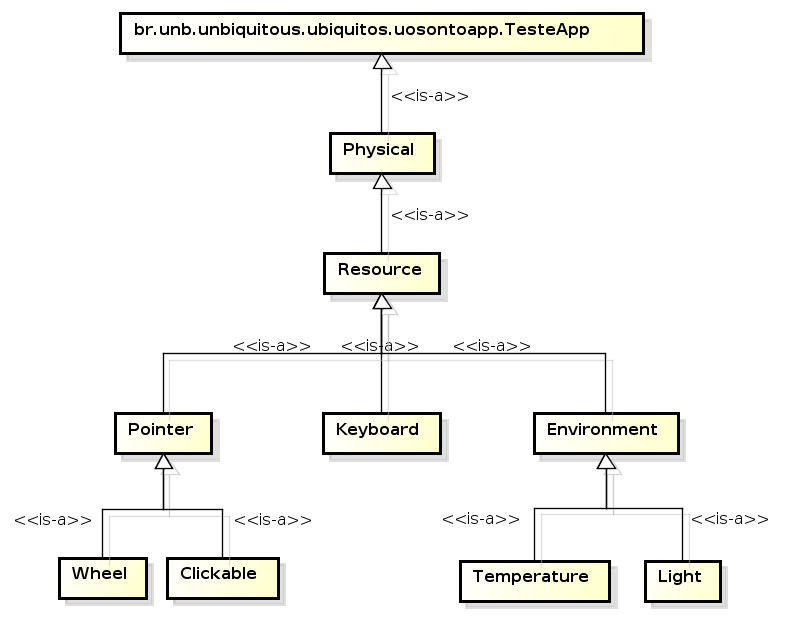
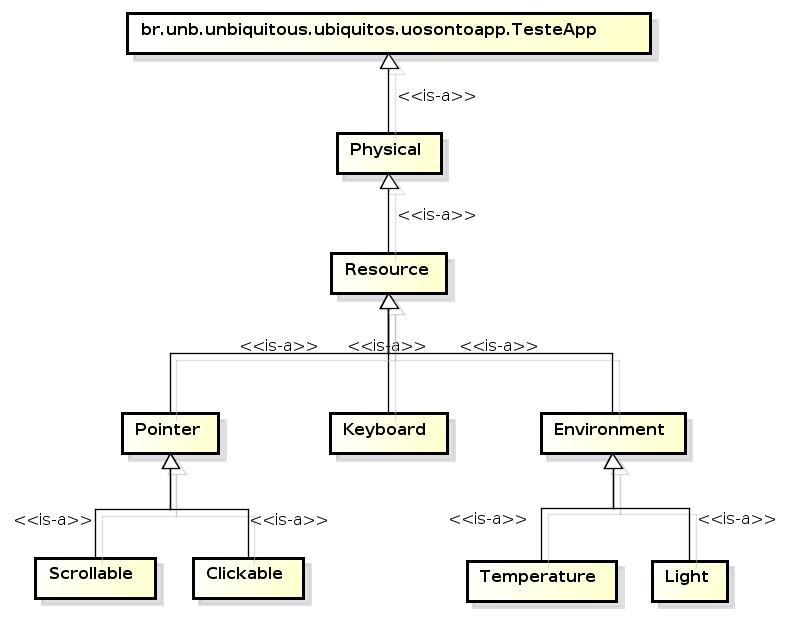
Adicionando parte das alterações sugeridas pela banca.

diff --git a/capitulos/2.ClassificacaoDeRecursos/classificacao_de_recursos.tex b/capitulos/2.ClassificacaoDeRecursos/classificacao_de_recursos.tex
@@ -15,12 +15,12 @@ Um desafio fundamental para tais ambientes é o desenvolvimento de técnicas de 
 	\item Ser escalável para um grande número de recursos.
 \end{enumerate}
 
-Neste sentido, destaca-se a importância de uma classificação de recursos que possibilite uma melhor gestão dos diversos recursos presentes no \emph{smart space}. Muitos trabalhos focam nos serviços e não nos recursos e, por esse motivo, o tema ``Classificação de Recursos'' também é comumente chamado de ``Classificação de Serviços'', ``Tipagem de Serviços'' ou ``Ontologia de Serviços''. Tal classificação livrará o usuário de tarefas e configurações tediosas e redundantes, criando um entendimento comum do que estes recursos representam, evitando quaisquer custos administrativos, de forma a facilitar a interação entre diferentes aparelhos e contribuir para a adaptabilidade de serviços. As aplicacões podem, portanto, saber quais recursos podem ou devem utilizar dependendo do contexto atual.
+Neste sentido, destaca-se a importância de uma classificação de recursos que possibilite uma melhor gestão dos diversos recursos presentes no \emph{smart space}. Muitos trabalhos focam nos serviços e não nos recursos e, por esse motivo, o tema ``Classificação de Recursos'' também é comumente chamado de ``Classificação de Serviços'' ou ``Tipagem de Serviços''. Tal classificação livrará o usuário de tarefas e configurações tediosas e redundantes, criando um entendimento comum do que estes recursos representam, evitando quaisquer custos administrativos, de forma a facilitar a interação entre diferentes aparelhos e contribuir para a adaptabilidade de serviços. As aplicacões podem, portanto, saber quais recursos podem ou devem utilizar dependendo do contexto atual.
 
 A fim de ilustrar a vantagem de se empregar a classificação de recursos em técnicas de descoberta de recursos, pode-se considerar o seguinte exemplo:
 
 \begin{quote}
-	Um usuário presente em um \emph{smart space} que não possui uma classificação de recursos necessita de uma tela para projetar a apresentação do seu trabalho de graduação que está armazenada em seu celular. Existem três recursos de tela disponíveis: uma TV LED de 40'', uma TV LCD de 27'' e uma TV 3D de 14''. Tal usuário poderia facilmente escolher qual dos três recursos melhor lhe serviria: buscaria, por meio de seu celular, cada um dos recursos disponíveis, e, em seguida, optaria por um. Contudo, a fim de manter a proatividade e invisibilidade inerente a sistemas ubíquos, o ambiente deveria ser capaz de reconhecer quais recursos são adequados ou não para projetar a apresentação. Assim, o que fazer para automaticamente selecionar a melhor opção? Outro problema ocorreria com a saída do ambiente de um dos recursos que estivessem sendo utilizados pelo usuário. O que fazer para supri-lo? A única alternativa seria entregar outro recurso idêntico ao anterior, de forma a garantir a existência dos serviços necessários para a sua correta execução. Com um mecanismo que classificasse tais recursos, todos estes problemas seriam facilmente sanados, com tudo ocorrendo de forma transparente ao usuário. Ao necessitar de uma tela, realizaria-se uma única busca por um recurso de ``Tela'', obtendo como resultado todas as telas disponíveis. Se um recurso tornar-se indisponível, não só recursos idênticos poderiam substituir o anterior, mas também todos aqueles que possuíssem os serviços necessários para a correta execução da tarefa em andamento, mesmo que não fossem idênticos. A Figura~\ref{fig:arvoreDeEquivalencia} apresenta um exemplo da estrutura dessa classificação, em que \emph{WideScreen} e \emph{LetterBoxScreen} são uma especialização de \emph{Screen}.
+	Um usuário presente em um \emph{smart space} que não possui uma classificação de recursos necessita de uma tela para projetar a apresentação do seu trabalho de graduação que está armazenada em seu celular. Existem três recursos de tela disponíveis: uma TV LED de 40'', uma TV LCD de 27'' e uma TV 3D de 14''. Tal usuário poderia facilmente escolher qual dos três recursos melhor lhe serviria: buscaria, por meio de seu celular, cada um dos recursos disponíveis, e, em seguida, optaria por um. Contudo, a fim de manter a proatividade e invisibilidade inerente a sistemas ubíquos, o ambiente deveria ser capaz de reconhecer quais recursos são adequados ou não para projetar a apresentação. Assim, o que fazer para automaticamente selecionar o recurso mais apropriado utilizando-se para isso informações de contexto previamente coletadas? Outro problema ocorreria com a saída do ambiente de um dos recursos que estivessem sendo utilizados pelo usuário. O que fazer para supri-lo? Uma alternativa seria entregar outro recurso idêntico ao anterior, de forma a garantir a existência dos serviços necessários para a sua correta execução. Com um mecanismo que classificasse tais recursos, todos estes problemas seriam facilmente sanados, com tudo ocorrendo de forma transparente ao usuário. Ao necessitar de uma tela, realizaria-se uma única busca por um recurso de ``Tela'', obtendo como resultado todas as telas disponíveis. Se um recurso tornar-se indisponível, não só recursos idênticos poderiam substituir o anterior, mas também todos aqueles que possuíssem os serviços necessários para a correta execução da tarefa em andamento, mesmo que não fossem idênticos. A este procedimento da-se o nome de Descoberta de Recursos. A Figura~\ref{fig:arvoreDeEquivalencia} apresenta um exemplo da estrutura dessa classificação, em que \emph{WideScreen} e \emph{LetterBoxScreen} são uma especialização de \emph{Screen}.
 \end{quote}
 
 \begin{figure}[ht]

diff --git a/capitulos/5.Conclusao/conclusao_e_trabalhos_futuros.tex b/capitulos/5.Conclusao/conclusao_e_trabalhos_futuros.tex
@@ -8,7 +8,7 @@ Atualmente, utilizando um único \emph{smartphone}, é possivel acessar o seu \e
 É nesse ambiente cada vez mais ubíquo que a classificação de recursos se insere: ambientes com dispositivos heterogêneos (móveis ou não) interagindo entre si, trocando informações ou utilizando capacidades características de cada aparelho.
 \end{comment}
 
-Com recursos cada vez mais capazes e variados, faz-se necessária uma padronização dos mesmos para se atingir o objetivo da ubicomp. É nessa tarefa que a operacionalização da classificação de recursos na DSOA se concentra, definindo tipos de recursos básicos e tornando possível saber quais são os recursos equivalentes disponíveis no ambiente, colaborando para melhorar a adaptabilidade de serviços do \emph{middleware uOS}. Este trabalho trouxe a possibilidade de um serviço solicitado pelo usuário seja provido por recursos equivalentes de diversos dispositivos. Dessa forma, caso um serviço se torne indisponível, outro recurso equivalente poderá provê-lo. Antes deste trabalho os recursos não tinham relação entre sí, dificultando a escolha por parte do usuário e impossibilitando que o \emph{middleware} pudesse tomar esta decisão sem consultá-lo. Assim, caso alguém precise de um recurso de \emph{mouse}, todo recurso equivalente será encontrado de forma transparente, o que amplia a gama de recursos à disposição do usuário, evitando desperdício de recursos e levando a um melhor aproveitamento das capacidades do ambiente.
+Com recursos cada vez mais capazes e variados, faz-se necessária uma padronização dos mesmos para se atingir o objetivo da ubicomp. É nessa tarefa que a operacionalização da classificação de recursos na DSOA se concentra, definindo tipos de recursos básicos e tornando possível saber quais são os recursos equivalentes disponíveis no ambiente, colaborando para melhorar a adaptabilidade e a disponibilidade~\cite{avizienis} de serviços do \emph{middleware uOS}. Este trabalho trouxe a possibilidade de um serviço solicitado pelo usuário seja provido por recursos equivalentes de diversos dispositivos. Dessa forma, caso um serviço se torne indisponível, outro recurso equivalente poderá provê-lo. Antes deste trabalho os recursos não tinham relação entre sí, dificultando a escolha por parte do usuário e impossibilitando que o \emph{middleware} pudesse tomar esta decisão sem consultá-lo. Assim, caso alguém precise de um recurso de \emph{mouse}, todo recurso equivalente será encontrado de forma transparente, o que amplia a gama de recursos à disposição do usuário, evitando desperdício de recursos e levando a um melhor aproveitamento das capacidades do ambiente.
 
 A definição das interfaces de recursos básicos servirá de guia para o desenvolvimento de novos \emph{drivers}. Isso fará com que a construção de novos serviços seja feita de forma mais coesa e que esses serviços sejam reutilizáveis e compatíveis entre si. Isso é possível, pois a definição de \emph{drivers} de novos recursos é feita por meio de novas interfaces que estendem as interfaces já definidas. Esses novos \emph{drivers} serão adicionados na árvore de equivalência e na ontologia do \emph{uOS}.
 

diff --git a/capitulos/3.Proposta/proposta.tex b/capitulos/3.Proposta/proposta.tex
@@ -1,7 +1,7 @@
 \chapter{Classificação de Recursos na DSOA}
 \label{cap:proposta}
 
-A padronização de recursos é de fundamental importância para \emph{frameworks} que se utilizam da descoberta dinâmica destes em determinado momento e contexto. Esta não se limita apenas a uma tarefa de nomear recursos, pois uma aplicação cliente precisa saber como interagir. Para isto é necessário conhecer as interfaces de acesso. Uma classificação deve responder as seguintes questões ~\cite{pervasiveComputing} para garantir a semântica entre as partes envolvidas:
+A padronização das classes de recursos é de fundamental importância para \emph{frameworks} que se utilizam da descoberta dinâmica destes em determinado momento e contexto. Esta não se limita apenas a uma tarefa de nomear recursos, pois uma aplicação cliente precisa saber como interagir. Para isto é necessário conhecer as interfaces de acesso. Uma classificação deve responder as seguintes questões ~\cite{pervasiveComputing} para garantir a semântica entre as partes envolvidas:
 
 \begin{itemize}
 	\item O que os clientes esperam de uma instância de um determinado recurso?
@@ -126,7 +126,7 @@ A definição de um conjunto de tipos primitivos auxilia na criação de novos t
 
 \end{itemize}
 
-Esses são os serviços essenciais aos tipos primitivos e contribuem para que recursos mais especializados possam ser definidos a partir deles. Por exemplo, o serviço mais simples que um recurso de display de imagem pode ter é o de mostrar uma imagem. Além disso, as aplicações podem requisitar serviços mais ou menos especializados, de acordo com a necessidade. A classificação permite ainda que novos tipos que não tenham relação com estes já definidos sejam criados, como por exemplo ``Sensores'', compondo novos tipos primitivos. Dessa forma, quanto mais granular for a definição de novos recursos, mais fácil será sua reutilização por outros recursos especializados. 
+Os tipos primitivos, juntamente com seus serviços essenciais, contribuem para que recursos mais especializados possam ser definidos a partir deles. Por exemplo, o serviço mais simples que um recurso de display de imagem pode ter é o de mostrar uma imagem. Além disso, as aplicações podem requisitar serviços mais ou menos especializados, de acordo com a necessidade. A classificação permite ainda que novos tipos que não tenham relação com estes já definidos sejam criados, como por exemplo ``Sensores'', compondo novos tipos primitivos. Dessa forma, quanto mais granular for a definição de novos recursos, mais fácil será sua reutilização por outros recursos especializados. 
 
 Tal definição é importante, pois permite um agrupamento dos recursos em torno de suas funcionalidades, a saber, os seus serviços. Sua relevância ficará mais clara com a leitura das próximas seções, nas quais os conceitos de ``Equivalência de recursos'' e ``Árvore de Equivalência'' serão apresentados.
 

diff --git a/capitulos/4.ImplementacaoETestes/uos.tex b/capitulos/4.ImplementacaoETestes/uos.tex
@@ -12,7 +12,7 @@ O \emph{uOS} é um \emph{middleware} cujo propósito é fornecer uma infra-estru
 
 No sistema destacam-se três camadas: Rede, Conectividade e Adaptabilidade como mostra a Figura~\ref{fig:camadasUOS}. A camada de adaptabilidade é responsável pela coordenação de interações feitas por meio do \emph{middleware}. A Figura~\ref{fig:diagramaDeBlocos} mostra a arquitetura interna da camada de adaptabilidade do \emph{uOS}. A ela adicionou-se uma estrutura em forma de floresta, em que a raiz de cada árvore representa um recurso novo que não é equivalente a nenhum outro. Essa estrutura é inicializada com cada tipo básico (conforme definido na Seção~\ref{sec:tiposBasicos}) compondo uma nova raiz da estrutura de árvores. Este componente é responsável por manter as relações de equivalência dos recursos, mantendo a consistência de serviços e interfaces e impedindo que ocorra uma referência circular entre recursos equivalentes. Quando um novo recurso é registrado no \emph{middleware}, são realizadas validações em seu \emph{driver} segundo as relações de equivalência e em seguida o \emph{driver} é adicionado na árvore de equivalência correta.
 
-Além de manter essa estrutura, a camada de adaptabilidade é responsável por popular a ontologia do \emph{uOS}. O novo \emph{driver} é adicionado à ontologia utilizando um conjunto de interfaces que permite a manipulação estrutural e semântica da ontologia de contexto do \emph{uOS}~\cite{ozakisbcup2011}. Na Figura~\ref{fig:ontologiaUOS} observa-se uma ontologia que contém as classes dos recursos \emph{Pointer} e \emph{Keyboard}.
+Além de manter essa estrutura, a camada de adaptabilidade é responsável por popular a ontologia existente do \emph{uOS}. O novo \emph{driver} é adicionado à ontologia utilizando um conjunto de interfaces que permite a manipulação estrutural e semântica da ontologia de contexto do \emph{uOS}~\cite{ozakisbcup2011}. Na Figura~\ref{fig:ontologiaUOS} observa-se uma ontologia que contém as classes dos recursos \emph{Pointer} e \emph{Keyboard}.
 
 \begin{figure}[ht]
 	\center

diff --git a/capitulos/2.ClassificacaoDeRecursos/classificacao/upnp.tex b/capitulos/2.ClassificacaoDeRecursos/classificacao/upnp.tex
@@ -105,4 +105,13 @@ O UPnP estabelece uma classificação utilizando um conjunto de tipos pré-deter
 	A definição de dispositivos básicos provêem um mecanismo para produtos que não se enquadram em uma classificação adequada do UPnP, possam utilizá-lo. Por esse motivo, essa especificação não possui nenhum serviço definido, mas pode ser utilizada como dispositivo raiz para outras categorias já definidas.
 \end{itemize}
 
-A partir de uma classificação padrão, os fabricantes podem, por exemplo, estender e especializar determinada definição adicionando novos serviços, o que sugere a formação de uma hierarquia de dispositivos por meio de arquivos XML. O UPnP, portanto, utiliza uma classificação dispositivos relacionada, o que facilita a criação de novos tipos de dispositivos a partir da classficação base agregando novos serviços. Essa classificação extendida, entretanto, deve passar por um processo de certificação. Um ponto forte nas classificações é o fato de já incluirem a especificação dos serviços que os dispositivos provêem.
+\begin{figure}[ht]
+\center
+\includegraphics[scale=0.49]{imagens/recursosUPnP}
+\caption{Representação gráfica dos tipos existentes no UPnP.}
+\label{fig:ddlspec}
+\end{figure}
+
+A partir de uma classificação padrão, os fabricantes podem, por exemplo, estender e especializar determinada definição adicionando novos serviços, o que sugere a formação de uma hierarquia de dispositivos por meio de arquivos XML. O UPnP, portanto, utiliza uma classificação de dispositivos relacionada, o que facilita a criação de novos tipos de dispositivos a partir da classificação base agregando novos serviços. Essa classificação extendida, entretanto, deve passar por um processo de certificação. Um ponto forte nas classificações é o fato de já incluirem a especificação dos serviços que os dispositivos provêem.
+
+De volta ao exemplo apresentado no início deste capítulo, observa-se que as televisões citadas classificariam-se como dispositivos de áudio e vídeo.

diff --git a/capitulos/1.Introducao/introducao.tex b/capitulos/1.Introducao/introducao.tex
@@ -14,6 +14,8 @@ Com o intuito de facilitar a adaptação dos serviços presentes nos diversos di
 
 Uma vez que dispositivos consigam se comunicar e utilizar os variados recursos presentes no ambiente, faz-se necessário identificar a quais tipos esses recursos pertencem, pois essa característica pode ser de grande valia nas decisões a serem tomadas pelo \emph{uOS}. Assim, torna-se interessante que haja uma classificação capaz de identificar quais recursos são equivalentes e substituíveis, a fim de possibilitar uma troca de certo recurso sempre que necessário.
 
+Os recursos no \emph{uOS} são os meios para se utilizar os serviços disponíveis. Inicialmente, ao se necessitar de um determinado serviço era necessário explicitar exatamente qual o recurso desejado. Caso este recurso estivesse disponível no ambiente, poderia ser cedido para utilização por um dispositivo. Caso contrário, a aplicação requisitante não poderia utilizar o serviço pretendido, mesmo que houvesse algum outro recurso capaz de provê-lo. Entretanto, com a adição da classificação de recursos, torna-se possível solicitar por algum recurso existente no ambiente e, caso aquele recurso esteja indisponível, outros recursos considerados equivalentes ao primeiro poderão oferecer, de forma transparente ao usuário, o serviço necessário.
+
 O objetivo deste trabalho é definir uma classificação de recursos e, a partir dela, prover uma hierarquia de recursos extensível para a arquitetura DSOA que facilitará a provisão de determinados serviços para outros clientes interessados. Para tal, foi necessário criar regras de equivalência a serem aplicadas nos diversos recursos presentes no ambiente para decidir quais são equivalentes. Além disso, foi preciso desenvolver uma estrutura que facilite a organização desses recursos de forma a facilitar buscas e cálculos de equivalência.
 
 \begin{comment}

diff --git a/capitulos/4.ImplementacaoETestes/estudo_de_caso.tex b/capitulos/4.ImplementacaoETestes/estudo_de_caso.tex
@@ -11,7 +11,7 @@ Desenvolvida com a capacidade de sondar o \emph{smart space} em busca de recurso
 \subsection{Aplicações}
 \label{subsec:aplicacoes}
 
-Foram desenvolvidos dois \emph{drivers} voltados à plataforma Android. Estes se utilizam da tela sensível ao toque para prover um recurso de \emph{mouse}. Além de ambos serem equivalentes ao tipo \emph{Pointer}, um dos \emph{drivers} provê a interface \emph{Clickable}, o que o caracteriza como um \emph{mouse} e o outro implementa também a interface \emph{Scrollable}, tornando-o um \emph{mouse} com \emph{scroll}. Portanto, obteve-se dois recursos de \emph{mouse}, de forma que um possui apenas o serviço de \emph{click}, além da movimentação do ponteiro do \emph{mouse} e o outro possui ambos os serviços e inclui ainda o serviço de \emph{scroll}.
+Foram desenvolvidos dois \emph{drivers} voltados à plataforma Android. Estes se utilizam da tela sensível ao toque para prover um recurso de \emph{mouse}. Além de ambos serem do tipo \emph{Pointer}, um dos \emph{drivers} provê a interface \emph{Clickable}, o que o caracteriza como um \emph{mouse} e o outro implementa também a interface \emph{Scrollable}, tornando-o um \emph{mouse} com \emph{scroll}. Portanto, obteve-se dois recursos de \emph{mouse}, de forma que um possui apenas o serviço de \emph{click}, além da movimentação do ponteiro do \emph{mouse} e o outro possui ambos os serviços e inclui ainda o serviço de \emph{scroll}.
 
 Ambas a aplicações são integradas com a \emph{Hydra}, cuja comunicação com os dispositivos é intermediada pelo \emph{middleware uOS}, que abstrai a complexidade do processo. Por isso a utilização de \emph{drivers} que mapeiam os recursos existentes no ambiente de tal forma a manter a compatibilidade com a DSOA. Seguem abaixo as interfaces dos \emph{drivers} utilizados. \\
 

diff --git a/capitulos/2.ClassificacaoDeRecursos/classificacao/bluetooth.tex b/capitulos/2.ClassificacaoDeRecursos/classificacao/bluetooth.tex
@@ -42,7 +42,7 @@ Seguem abaixo os perfis atualmente disponíveis~\cite{bluetoothprofiles}:
 	Define como um dispositivo de FAX pode ser usado por um dispositivo de terminal. Exemplos de tais dispositivos incluem: \emph{laptops}, PC's, celulares, PDA's e modems~\cite{bluetoothprofilesFAX}.
 	\item \emph{File Transfer Profile} (FTP): 
 
-	Define como as pastas e os arquivos em um dispositivo servidor podem ser visitados por um dispositivo cliente.Exemplos de tais dispositivos incluem: \emph{laptops}, PC's, celulares e PDA's~\cite{bluetoothprofilesFTP}.
+	Define como as pastas e os arquivos em um dispositivo servidor podem ser visitados por um dispositivo cliente. Exemplos de tais dispositivos incluem: \emph{laptops}, PC's, celulares e PDA's~\cite{bluetoothprofilesFTP}.
 	\item \emph{General Audio/Video Distribution Profile} (GAVDP): 
 
 	Fornece a base para o A2DP e o VDP, que são a base dos sistemas de distribuição projetados para fluxos de vídeo e áudio usando a tecnologia \emph{Bluetooth}. Exemplos de tais dispositivos incluem: reprodutores de música, fones de ouvido e alto-falantes estéreos, \emph{laptops}, PC's, celulares e PDA's~\cite{bluetoothprofilesGAVDP}.
@@ -83,3 +83,5 @@ Seguem abaixo os perfis atualmente disponíveis~\cite{bluetoothprofiles}:
 
 	Define como um dispositivo transmite um vídeo através de uma conexão \emph{Bluetooth}. Exemplos de tais dispositivos incluem: PC's, reprodutores digitais portáteis, câmeras de vídeo, TV's e monitores~\cite{bluetoothprofilesVDP}.
 \end{itemize}
+
+De volta ao exemplo apresentado no início deste capítulo, observa-se que as televisões citadas classificariam-se como dispositivos AVRCP e VDP.

diff --git a/capitulos/4.ImplementacaoETestes/implementacao_e_testes.tex b/capitulos/4.ImplementacaoETestes/implementacao_e_testes.tex
@@ -2,8 +2,6 @@
 
 A classificação de recursos (Capítulo~\ref{cap:proposta}), além de facilitar o desenvolvimento de novos \emph{drivers}, possibilita a escolha de recursos equivalentes adicionando flexibilidade ao \emph{smart space}. Ao se modificar a DSOA no que se refere a forma como os recursos são encontrados e identificados no ambiente, as partes que implementam esta arquitetura também devem ser ajustadas para se manterem compatíveis. Desta forma, tanto o conjunto de protocolos uP como o middleware uOS foram adequados para comportar a classificação de recursos apresentada.
 
-Os recursos no \emph{uOS} são os meios para se utilizar os serviços disponíveis. Inicialmente, ao se necessitar de um determinado serviço era necessário explicitar exatamente qual o recurso desejado. Caso este recurso estivesse disponível no ambiente, poderia ser cedido para utilização por um dispositivo. Caso contrário, a aplicação requisitante não poderia utilizar o serviço pretendido, mesmo que houvesse algum outro recurso capaz de provê-lo. Entretanto, com a adição da classificação de recursos, tornou-se possível solicitar por algum recurso existente no ambiente e, caso aquele recurso esteja indisponível, outros recursos considerados equivalentes ao primeiro poderão oferecer, de forma transparente ao usuário, o serviço necessário.
-
 Na Seção~\ref{sec:classificacaoNoUos} serão apresentados detalhes do funcionamento e da arquitetura interna do \emph{middleware uOS} e como o seu comportamento foi alterado para contemplar a classificação de recursos.
 
 \input{capitulos/4.ImplementacaoETestes/uos}

diff --git a/capitulos/2.ClassificacaoDeRecursos/classificacao/dlna.tex b/capitulos/2.ClassificacaoDeRecursos/classificacao/dlna.tex
@@ -104,6 +104,13 @@ Suas diretrizes destacam casos de uso construídos para redes domésticas, funç
 \end{table}
 \end{comment}
 
+\begin{figure}[ht]
+\center
+\includegraphics[scale=0.5]{imagens/recursosDLNA}
+\caption{Representação gráfica dos tipos existentes no DLNA.}
+\label{fig:ddlspec}
+\end{figure}
+
 Considere como exemplo a Figura~\ref{fig:traditionalProccess}, em que uma pessoa deseja compartilhar um pequeno vídeo com seus amigos a partir de seu celular. A fim de exibir esse vídeo em sua TV widescreen na sua sala de estar, ela necessita, primeiramente, enviá-lo para seu próprio email. Em seguida, deve ligar seu PC, fazer o download do vídeo e salvá-lo em um \emph{pendrive} ou cartão de memória. Posteriormente, deve ligá-lo na TV ou em um receptor digital e, então, utilizar a interface do dispositivo para localizar o vídeo e exibi-lo~\cite{dlnahdvideostreaming}, tornando-se, dessa forma, um processo tedioso e demora que os consumidores raramente farão.
 
 Além de interromper a conversa, esse tipo de processo de transferência de conteúdo exige tempo e atenção em excesso do usuário, mesmo quando ocorre sem problemas. Como resultado, a partilha informal de vídeo em múltiplas telas não é vista, muitas vezes, como uma opção razoável~\cite{dlnahdvideostreaming}.
@@ -163,3 +170,4 @@ Desta forma, o DLNA pode ser visto como um aglomerado de camadas e seus respecti
 \end{table}
 \end{comment}
 
+De volta ao exemplo apresentado no início deste capítulo, observa-se que as televisões citadas classificariam-se como dispositivos DMP e DMR.

diff --git a/capitulos/2.ClassificacaoDeRecursos/classificacao/ddl.tex b/capitulos/2.ClassificacaoDeRecursos/classificacao/ddl.tex
@@ -22,3 +22,5 @@ Os dispositivos estão classificados em três categorias:
 \end{itemize}
 
 Essa classificação, portanto, se apresenta de forma bastante genérica, pois um dispositivo pode se enquadrar como sensor se limitando a fornecer dados de entrada, como atuador, se limitando a receber dados e tomar ações, ou então será classificado como um dispositivo complexo. Logo a categoria de dispositivo complexo poderá ser utilizada por diferentes tipos de recursos, necessitando conhecer as operações definidas no recurso para, a partir dos seviços providos pelo dispositivo, poder inferir que tipo de recurso é aquele. 
+
+De volta ao exemplo apresentado no início deste capítulo, observa-se que as televisões citadas classificariam-se como dispositivos complexos.

diff --git a/capitulos/2.ClassificacaoDeRecursos/classificacao/ieee1451.tex b/capitulos/2.ClassificacaoDeRecursos/classificacao/ieee1451.tex
@@ -122,4 +122,4 @@ Os três tipos principais de objetos IEEE 1451.1 são:
 
 Há ainda as classes não que fazem parte do padrão IEEE 1451.1, que não estão representadas na hierarquia acima e possuem restrições de aplicabilidade na arquitetura IEEE 1451. Este padrão possui a limitação de ter sido criado para sensores e atuadores, e, portanto, embora possua um relacionamento entre as classes, elas não podem ser estendidas. Como forma de representação, esse padrão utiliza a \emph{Interface Description Language} (IDL).
 
-
+De volta ao exemplo apresentado no início deste capítulo, observa-se que as televisões citadas não se classificariam em nenhum dos tipos acima, pois o padrão IEEE 1451.1 possui foco apenas em sensores e atuadores.
